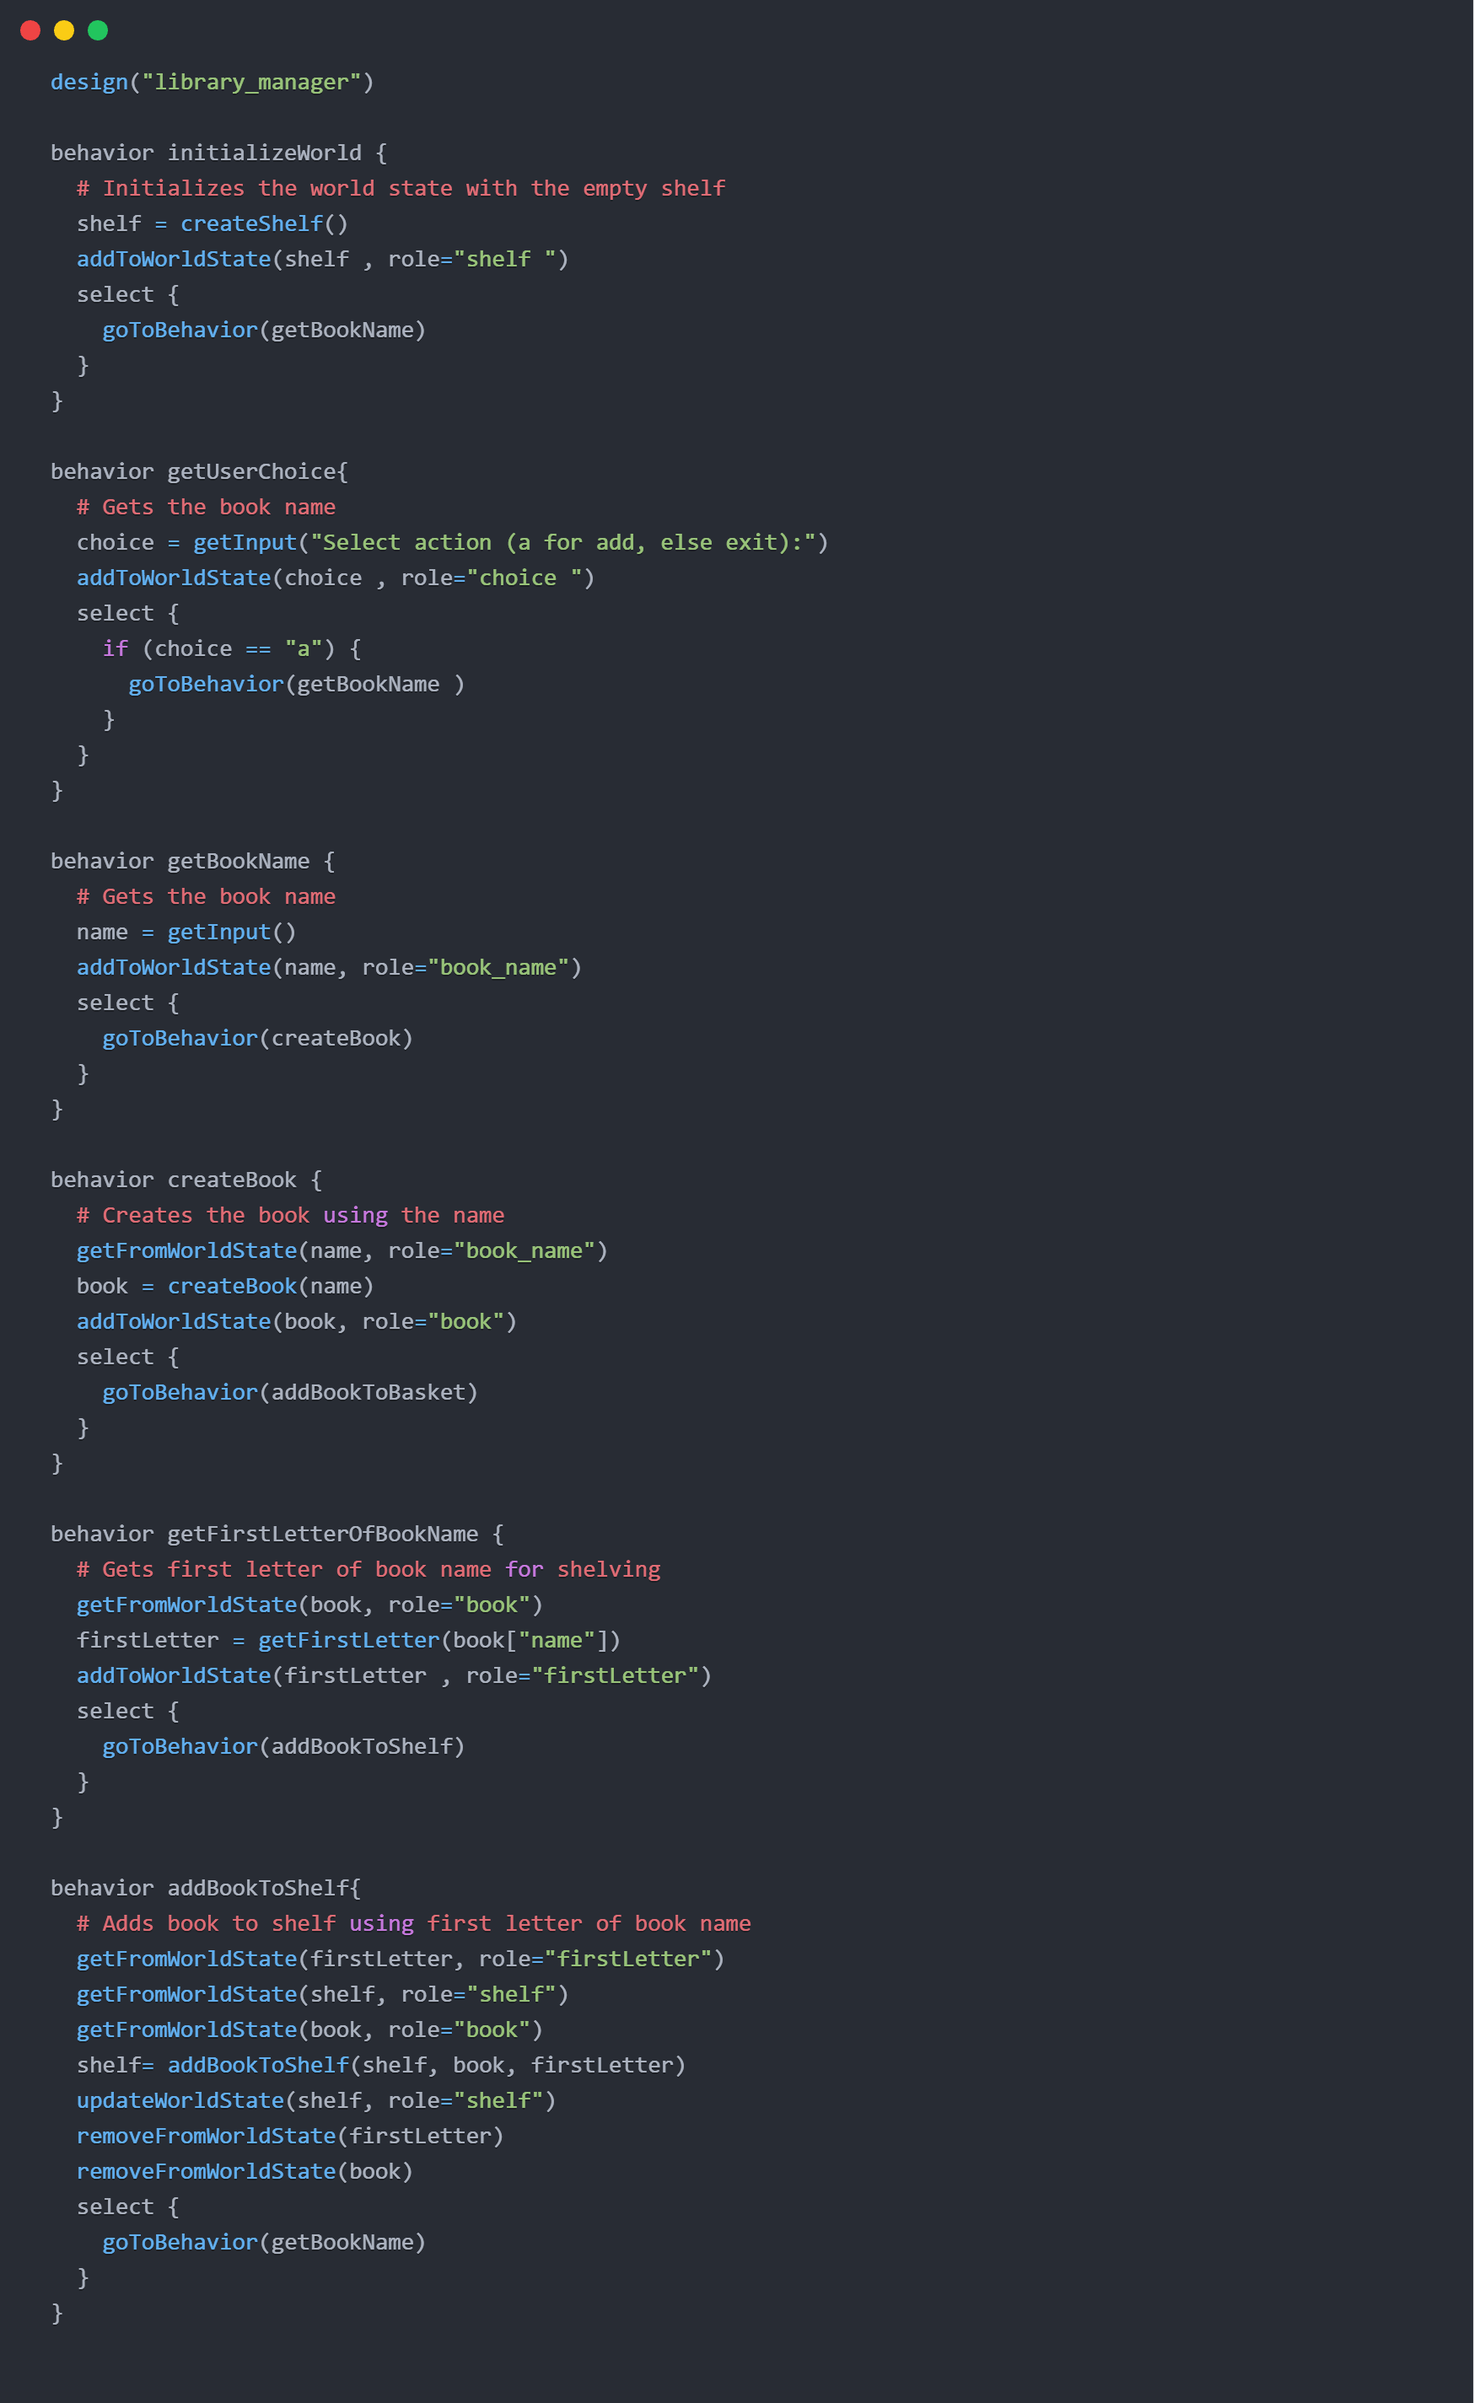
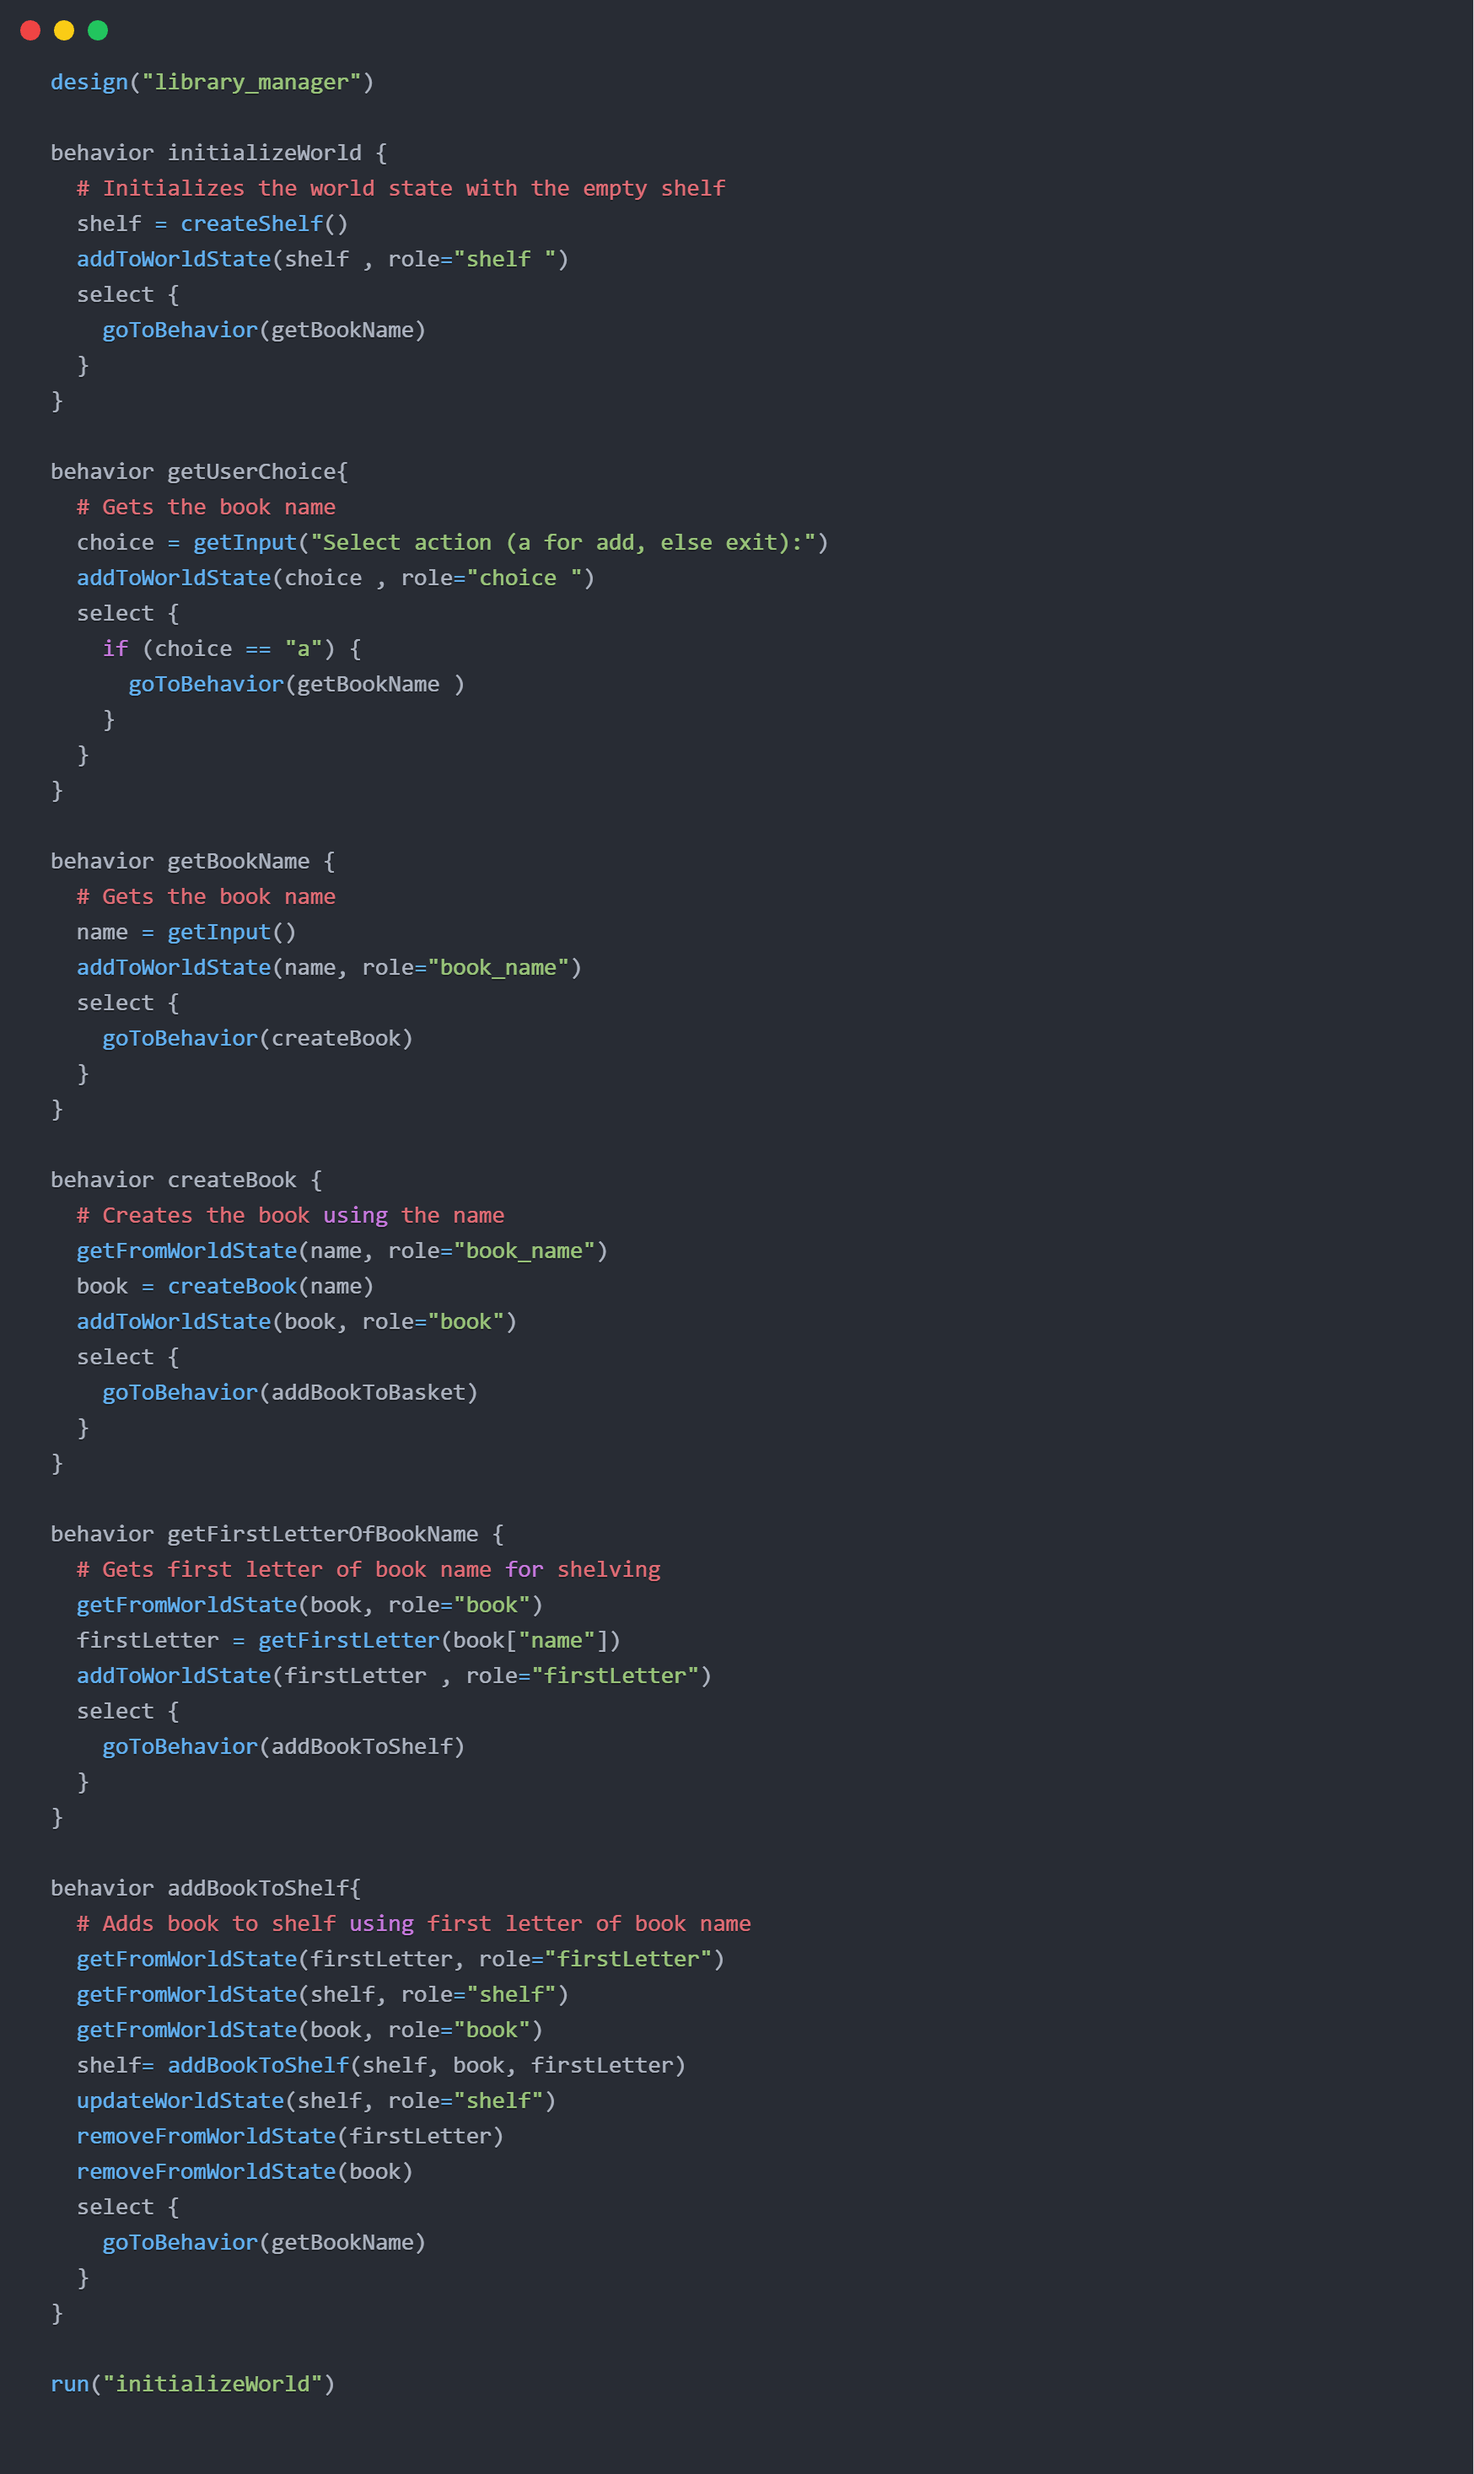
Add some thoughts about the implementation of the semantics and fix ambiguous wording.

diff --git a/workbench/docs/DLP.md b/workbench/docs/DLP.md
@@ -50,7 +50,7 @@ While this is a very simple design, it does contain enough functionality to demo
 
 ### The Design
 
-The behavioral script presented above outlines the design of a simple libary manager. In the script, each behavior is established in its own block. A behavior accessess the necessary participants from the world state, performs at transformation and modifies the world state in an unambiguous way. The behavior then either selects the next behavior directly or selects the next behavior based on the world state.
+The behavioral script presented above outlines the design of a simple libary manager. In the script, each behavior is established in its own block. A behavior accessess the necessary participants from the world state, performs the transformation on the participants and modifies the world state in an unambiguous way. The behavior then either selects the next behavior directly or selects the next behavior based on the world state. 
 
 A diagram of the design established by the script is provided below:
  ![DLP](../assets/design_behavior.png)
@@ -64,7 +64,7 @@ In this example, the closed semantic world has the following participants:
 
 The existence of these participants is established through the behaviors. Initially the world only contains a shelf, then when the user submits a choice, it is now a participant in the world. Through the choice made, the design selects the next behavior and accepts a book name, resulting in a new participant called name. Then the design creates the book, gets the first letter of the books name and adds it to the bookshelf.
 
-In this example, the there are two points at which the environment provides an impulse into the design. When the user submits their choice and when the user gets the books name. The design then resolves the input until it reaches a semantically stable state. In this case, once the choice a is made and the books name is provided, a series of behaviors are exhibited in sequence until it is stable again at getUserChoice and waits for the next impulse. 
+In this example, the there are two points at which the environment provides an impulse into the design. When the user submits their choice and when the user submits the books name. The design then resolves the input until it reaches a semantically stable state. In this case, once the choice a is made and the books name is provided, a series of behaviors are exhibited in sequence until it is stable again at getUserChoice and waits for the next impulse. 
 
 At this point, this structure establishes the semantics of what this world means. In this world getBookName has a specific meaning and it modifies the world state in an unambiguous way. Through the design abstraction language, meaning can be compressed by building composite behaviors. A composite behaviors meaning is established by the behaviors which define its meaning. For example, if you were to build a composite behavior for adding a book to the shelf, it would contain these behaviors:
 
@@ -80,12 +80,24 @@ In this way, the design abstrction language can establish behaviors and compress
 Next, I will talk about how the implementaiton that realizes the meaning of the semantics is sepcified.
 
 ### Implementation of Semantics 
-- Describe how the implementation that realizes the meaning of the semantics is specified.
-- Describe how the invariants that identify ways in which the transformation can fail are specified.
-- Describe how this makes the specified design executable 
-- Describe how you need to log minimal information to replay an execution because deterministic transformations can be recreted.
+The design abstraction language establishes the closed semantic world and the meaning of its semantics. By providing the implementation that realizes the meaning of the semantics, the design itself becomes executable.
+
+Below is an example of the implemenation of the transformation that gets the first letter of the books name:
+ ![DLP](../assets/implementation_of_semantics.png)
+
+In this example, the implementation realizes the meaning of the transformation getFirstLetter in the getFirstLetterOfBookName behavior of the library manager design. It accesses the first character of the provided value and returns it. The returned value is then saved in the world state as the first letter of the books name. In my opinion, the important point to note here is that every single part of this has unambiguous meaning, including the participants involved in the transformation, the transformation itself and then the generated value.
+
+Through this process, a software system can be implemented by establishing a design, then the implementation that realizes its meaning and then synthesizing an executable output of the design. The synthesis uses the run command specified in the library manager design to identify which behavior to exhibit first. Then the design itself selects the next behvior to exhibit until it doesn't select a new behavior. As a result, the design itself becomes executable. The closed semantic world is being realized by the implementations that realizing the meaning of the closed semantic world.
+
+Since the implementation of each transformation is realizing the meaning established by the semantics. The ways in which that transformation can fail can also be specified unambiguously as invariants. I will speak more about this in the next section.
+
+Finally, since the design is now a computable model, the minimal information needed replay an execution can be unambiguously identified. This means that the information that can't be deterministcally reproduced by the engine must be logged and the replay can recreate the deterministic infromation through the transformations. In the case of the library manager, this means that the user choice and the book name must be provided, the same execution can be replayed with just those inputs.
+
+Ultimately, this ability to establish the implementation that unambiguously realizes the meaning of the designs semantics transforms the design specified in the DAL into a CSM. Now the implementation unambiguously realizes the meaning of the design and is executed by the design itself.
 
 ### Reshaping Design using Invariants
+
+In the example provided above, the invariant specifies that value provided to the 
 - Establish how the invariants can be used to identify the invariant paths using the design structure
 - Describe algorithm to automatically place invariants for all combination of participants
 - Describe how the invariant path must be modified to provide a semantically valid path of the invalid narrative
